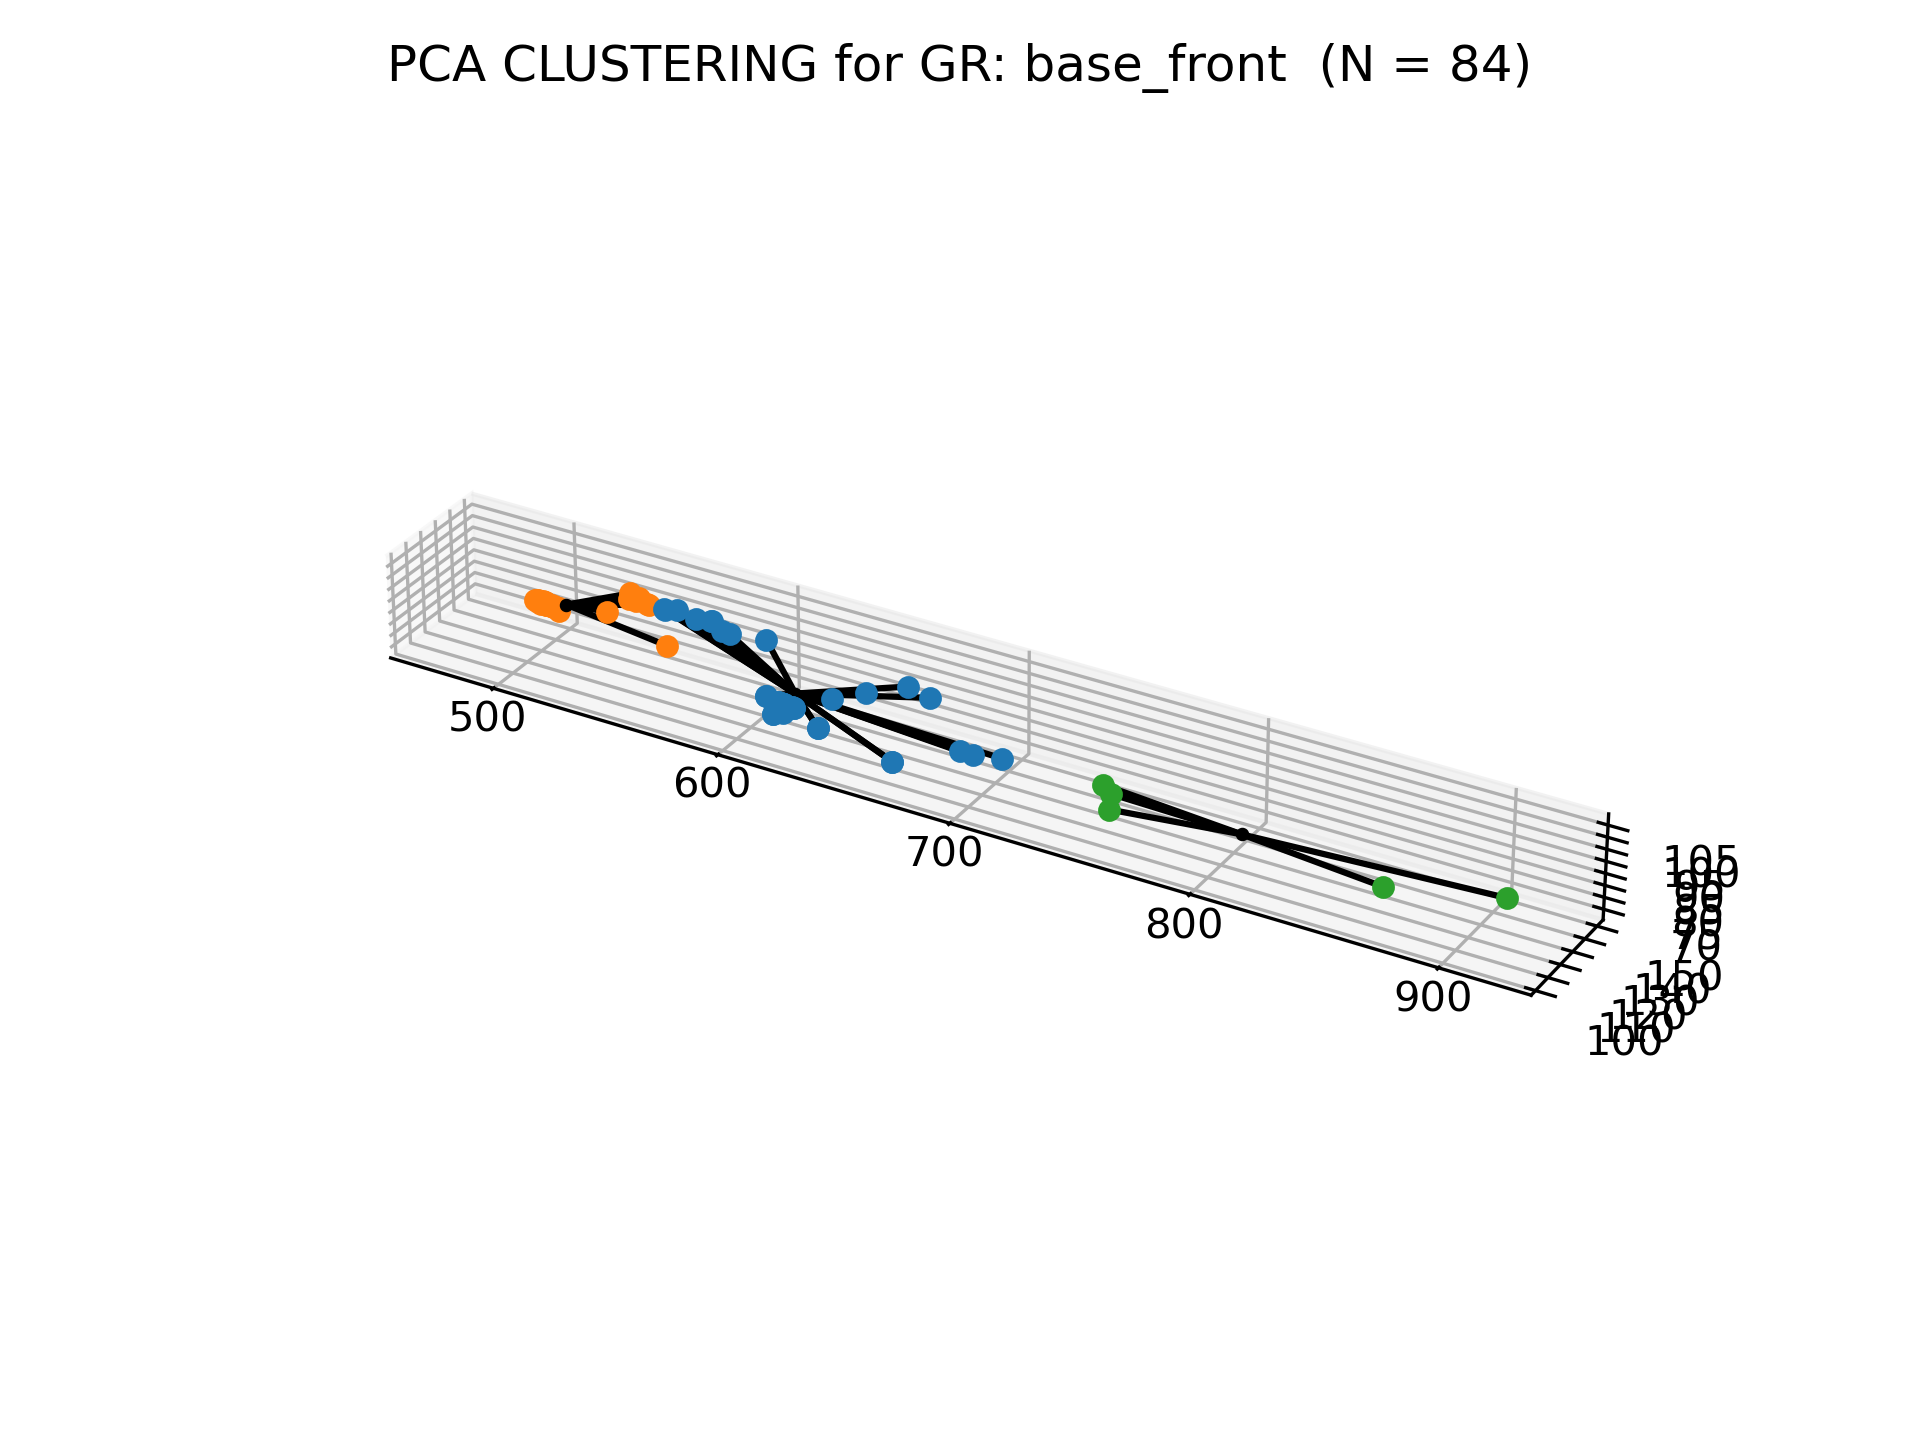
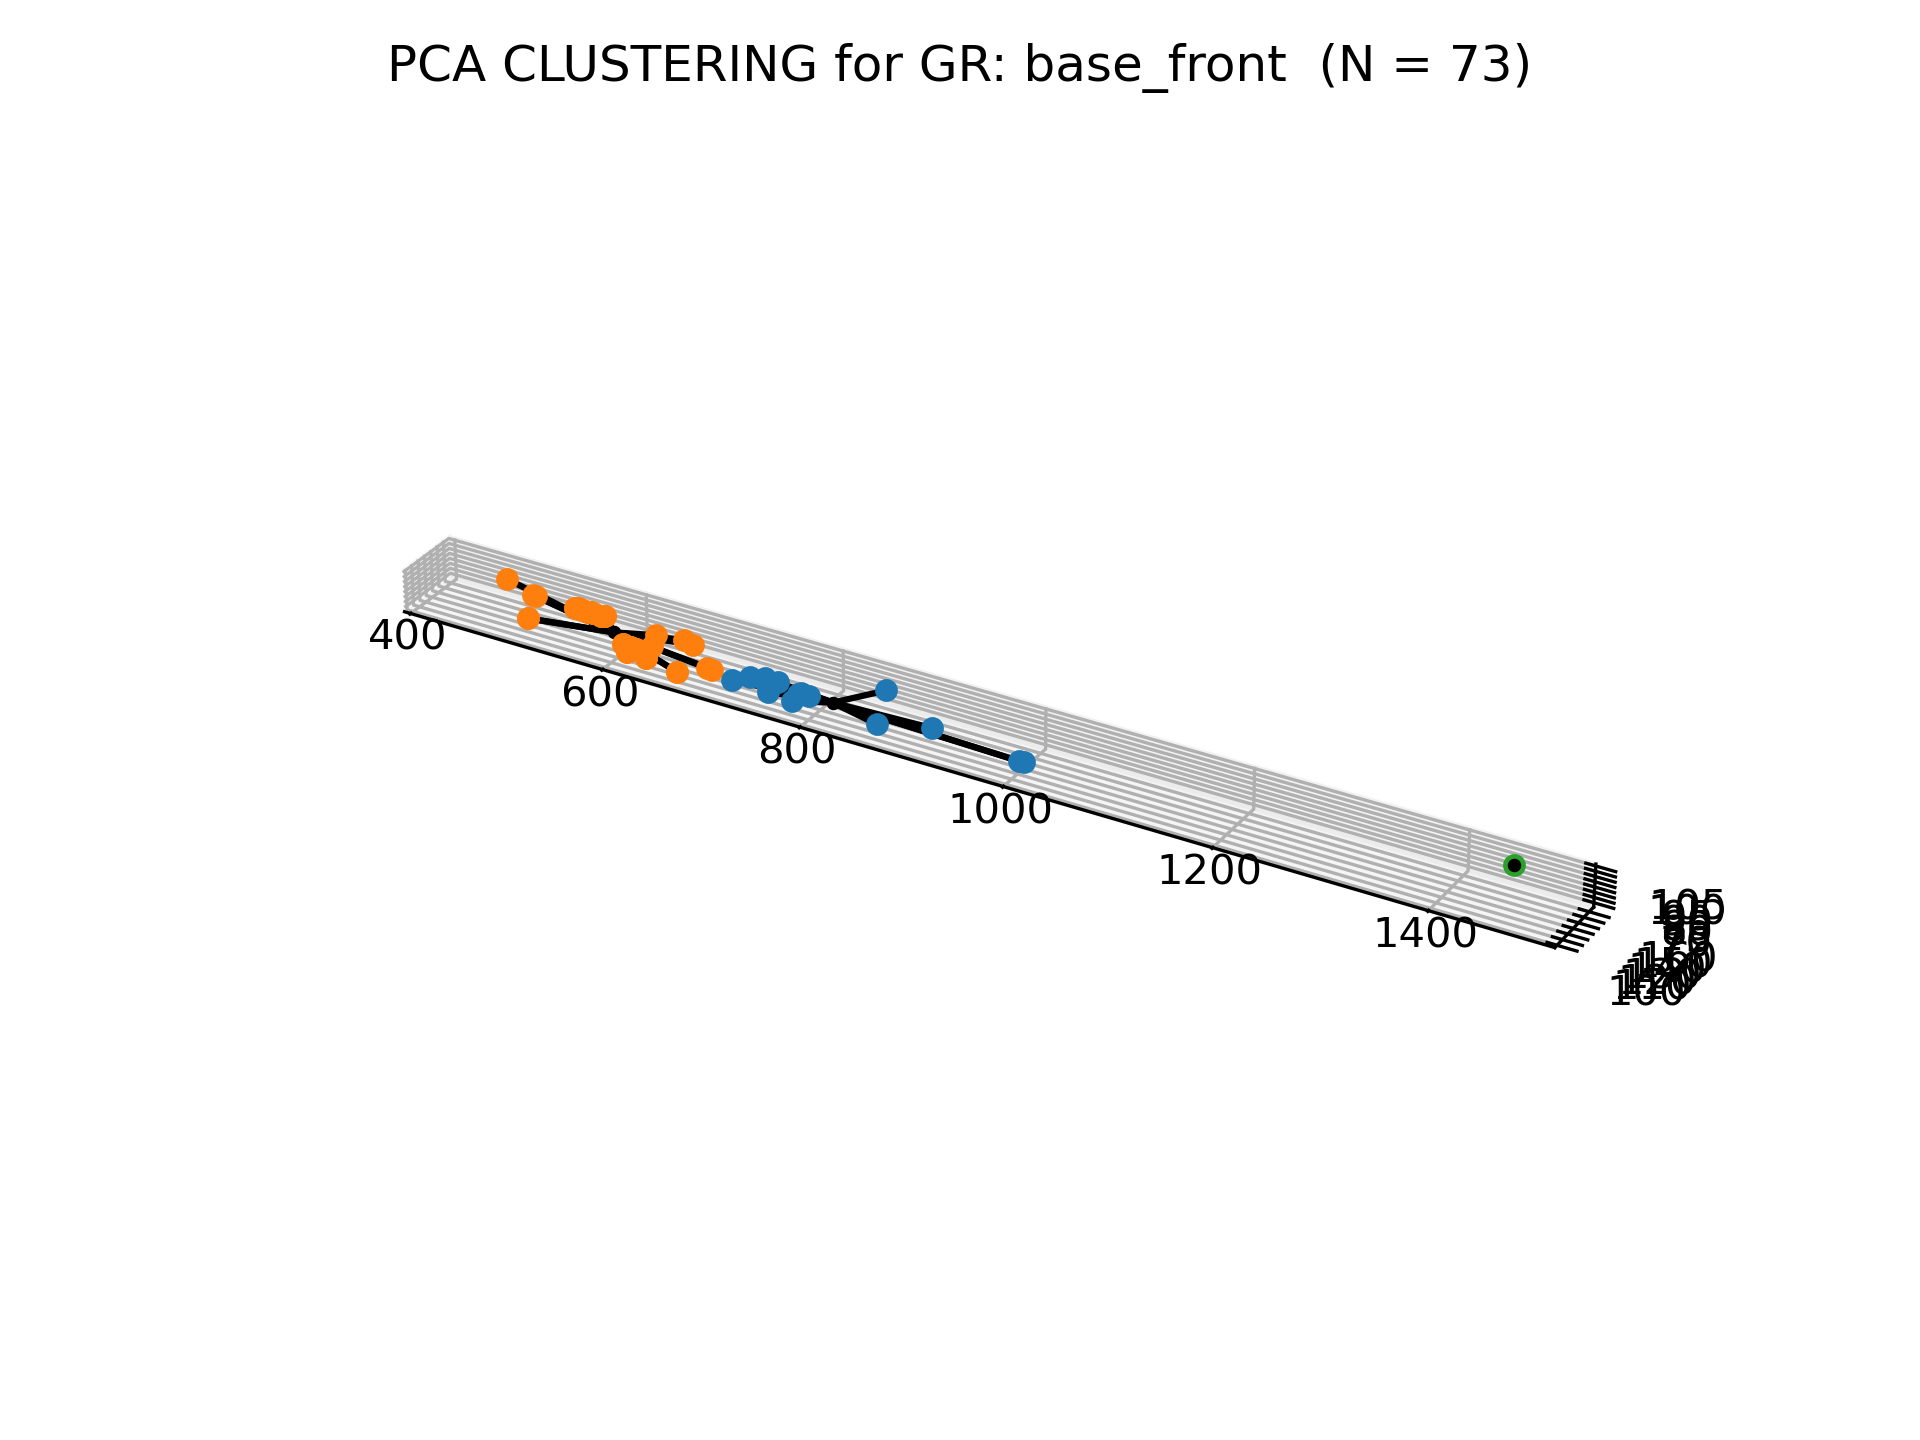
Updated images to com faces Bugfixes

Changed region(s): [[0.1875, 0.3438, 0.9062, 0.75], [0.75, 0.0312, 0.7812, 0.0625]]

diff --git a/scripts/main.py b/scripts/main.py
@@ -175,7 +175,7 @@ def main(PROCESS_ALL = False,
                 from clustering import add_info_to_classified
                 save_dfs(general=False, clustering=True)
                 add_info_to_classified(reference)
-                reference.clusters_eva = get_clusters(reference.classified, column = "Best_Match", ref_name=reference.name)
+                reference.clusters_eva = get_clusters(reference.classified_df, column = "Best_Match", ref_name=reference.name)
             if reference.name != "GR" and ONLY_GR:
                 reference.pickle()
                 continue
@@ -251,7 +251,7 @@ if __name__ == "__main__":
          MINIMUM_CONTACTS=0,  # Minimum number of contacts to consider a dimer interface
 
          # Dimer processing, includes contact calculation and face identification, generates contact dataframes
-         SKIP_DIMERS = False, # Skip the entire block (overridden by PROCESS_ALL)
+         SKIP_DIMERS = True, # Skip the entire block (overridden by PROCESS_ALL)
          FORCE_CONTACTS = True,  # Force contact calculation if already calculated (overridden by PROCESS_ALL)
          CONTACT_DISTANCE_CLUSTERING = 12,
          FACES_BY_COM = True,
@@ -264,9 +264,9 @@ if __name__ == "__main__":
          # Clustering, from SM to plotting
          SKIP_CLUSTERING=False, # Skip th entire block (overridden by PROCESS_ALL)
 
-         COMPARE = True, # REQUIRED / Compare GR clustering to EVA clustering
+         COMPARE = False, # REQUIRED / Compare GR clustering to EVA clustering
          ONLY_GR = True, # Whether to only cluster GR
-         FORCE_CLUSTERING = False, # Force clustering if already calculated (overridden by PROCESS_ALL)
+         FORCE_CLUSTERING = True, # Force clustering if already calculated (overridden by PROCESS_ALL)
          SPLIT_FACES = True,
          FORCE_SPLIT = False,
          N_CLUSTERS = 4,

diff --git a/scripts/clustering.py b/scripts/clustering.py
@@ -633,7 +633,7 @@ def add_info_to_classified(reference):
     reference.faces_df = vars.clustering["faces"][reference.name]
     vars.clustering["classified"][reference.name].to_csv(os.path.join(root.classified, reference.name + ".csv"))
 
-def add_clusters_to_classified(reference):
+def add_clusters_to_classified(reference, pca=True):
     classified_path = os.path.join(root.classified, reference.name + ".csv")
     classified = pd.read_csv(classified_path, index_col=0)
     classified.sort_values("ID", ascending=True, inplace=True)
@@ -641,7 +641,10 @@ def add_clusters_to_classified(reference):
     #empty_cluster = pd.DataFrame([None]*len(classified), columns=["cluster"])
     #classified = pd.concat([classified, empty_face, empty_cluster ], axis=1, ignore_index=True)
     print(classified)
-    for path in os.listdir(root["clustered_{}".format(reference.name)]):
+    pca_string = ""
+    if pca:
+        pca_string = "pcas_"
+    for path in os.listdir(root["clustered_{}{}".format(pca_string, reference.name)]):
         if "centres" not in path:
             df = pd.read_csv(os.path.join(root.clustered,"clustered_{}".format(reference.name), path))
             print(df)
@@ -857,8 +860,7 @@ def cluster_by_face(reference, FORCE_ALL=False, DIMENSIONS=3, n_clusters = 4, sc
             clustered_path = clusterize_pcas(name=file, subfolder=subfolder_name, in_path = pca_path, force=FORCE_CLUSTER, dimensions=pca_dimensions)
             plot_path = plot_clustered_pcas(reference, labels=False, labels_centres=True,  force = FORCE_PLOT,
                                 dimensions=DIMENSIONS, subfolder=subfolder_name, in_path=clustered_path, pca = True, pca_dimensions=pca_dimensions)
-    if pca:
-        add_clusters_to_classified(reference)
+    add_clusters_to_classified(reference, pca = pca)
     return
 
 

diff --git a/scripts/visualisation.py b/scripts/visualisation.py
@@ -77,7 +77,10 @@ def show_objects(obj_list, args):
             #print(str(type(item)))
             elif key == "pca":
                 print1("pca:")
-                pca = item
+                if type(item) is dict:
+                    pca = item["pca"]
+                else:
+                    pca = item
                 for n, component in enumerate(pca.components_):
                     print2("Component {}: {} / Value: {} --> Vector: {}".format(n,
                                                                                 pca.components_[n],

diff --git a/scripts/Globals.py b/scripts/Globals.py
@@ -34,6 +34,7 @@ class Directory:
     def load_folders(self, path):
         for folder in os.listdir(path):
             if os.path.isdir(os.path.join(path, folder)) and not folder.startswith('.'):
+                print(folder, end = "\r")
                 self.children[folder] = os.path.join(path, folder)
                 self.load_folders(os.path.join(path, folder))
 
